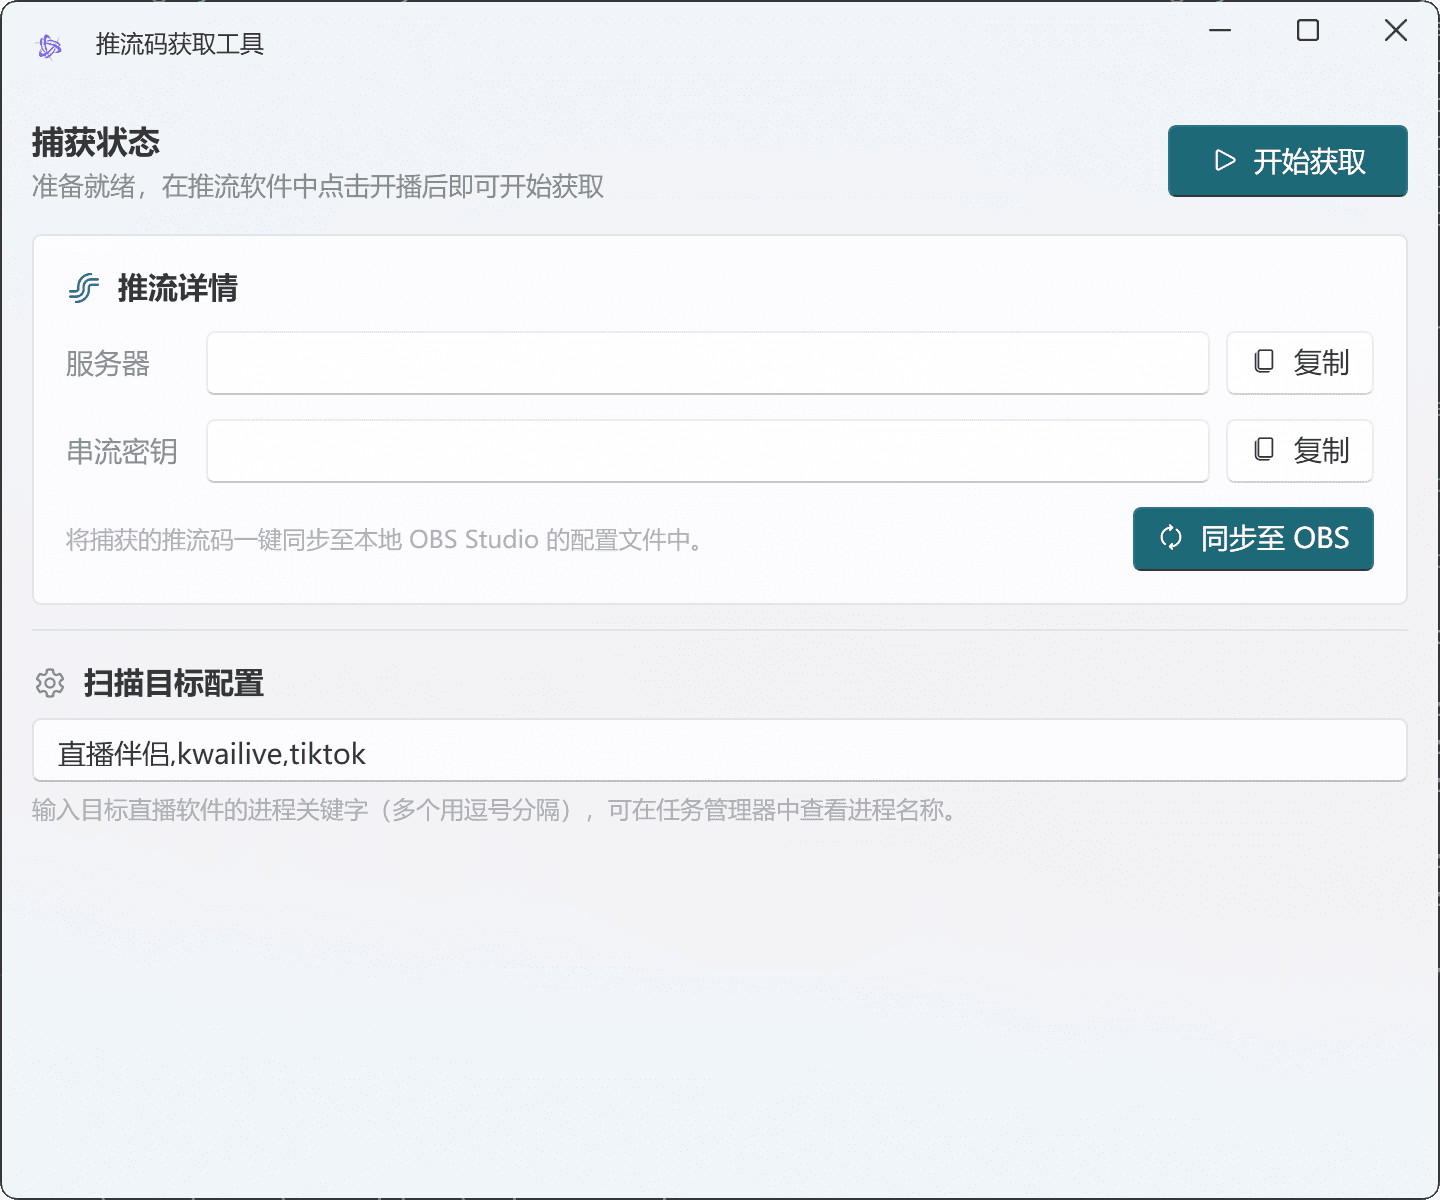
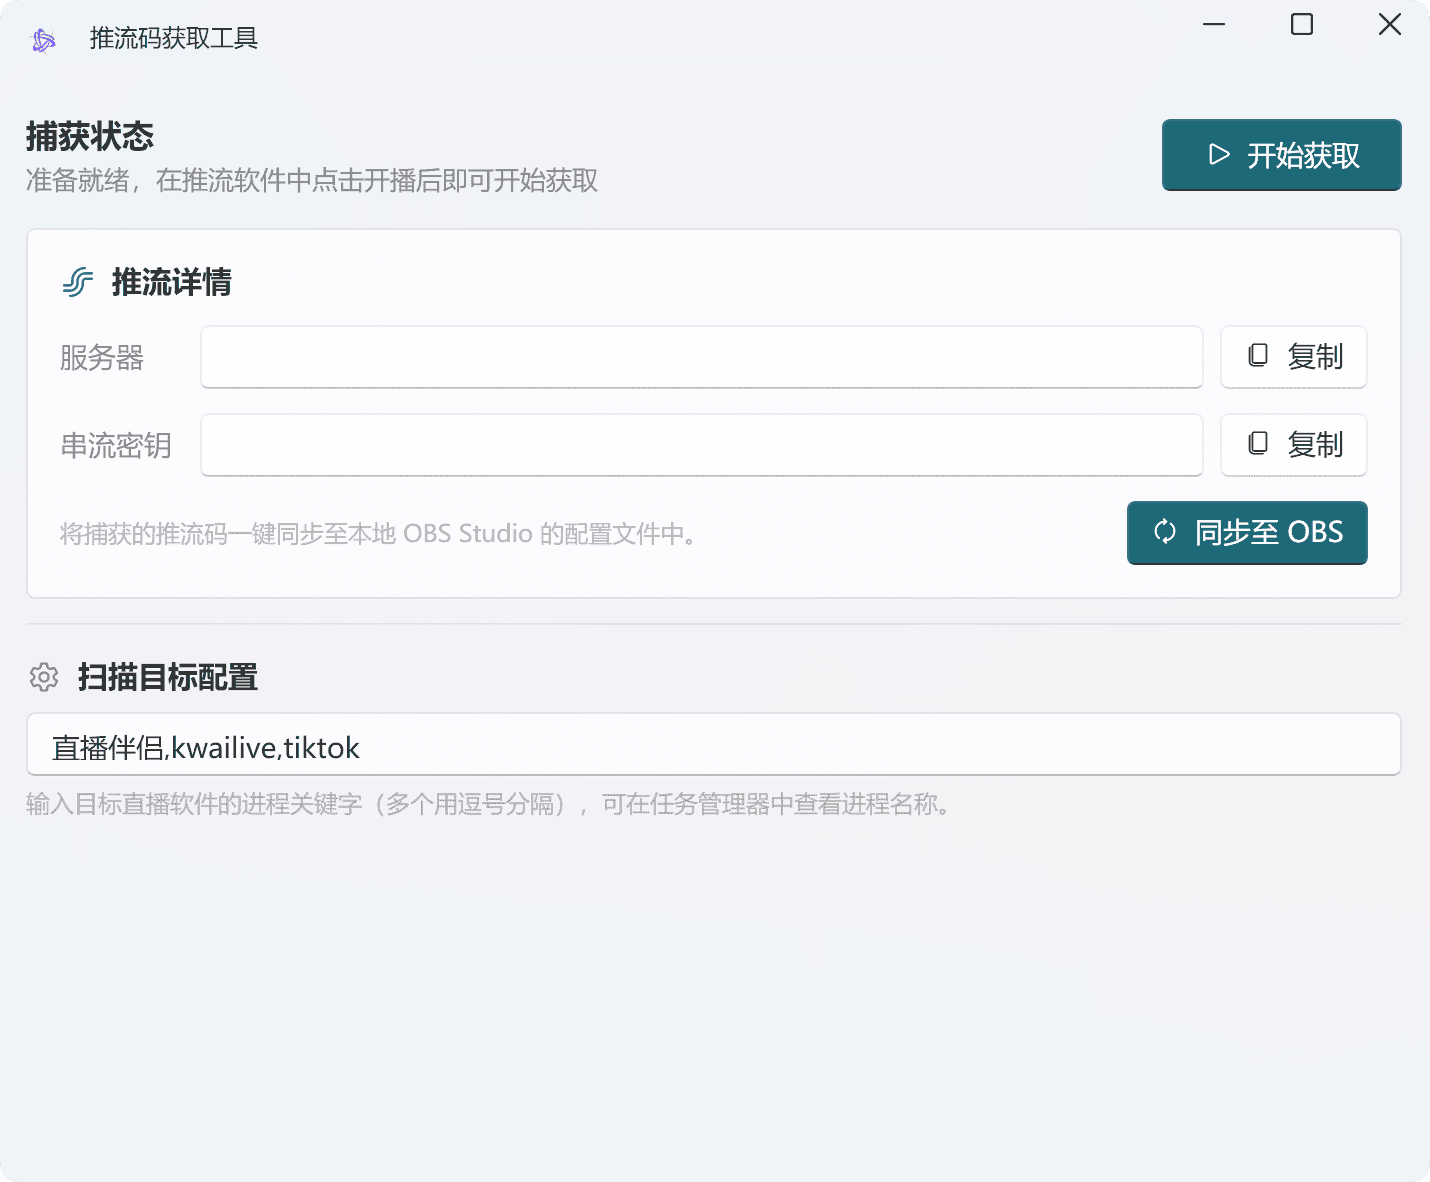
update

diff --git a/README.md b/README.md
@@ -14,7 +14,10 @@
 5. 获取后可复制 Server/Key 或一键同步 OBS
 
 ## 预览
-![主界面](.github/demo.png)
+
+<div style="display:inline-block">
+<img src=".github/demo.png" alt="demo1" width="600">
+</div>
 
 ### 开发命令
 
